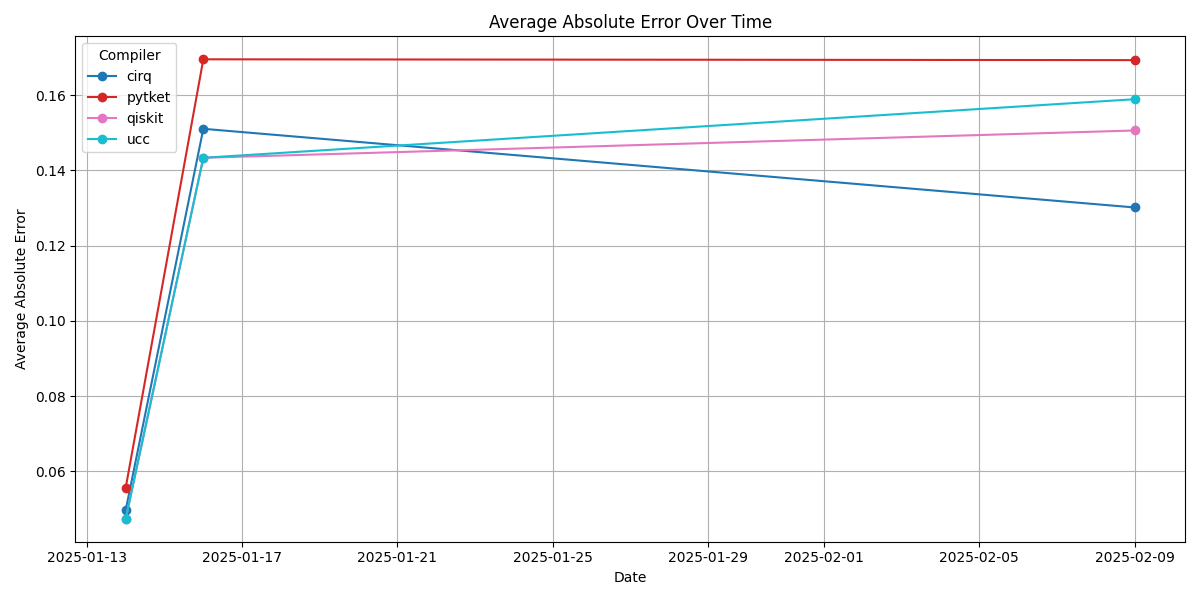
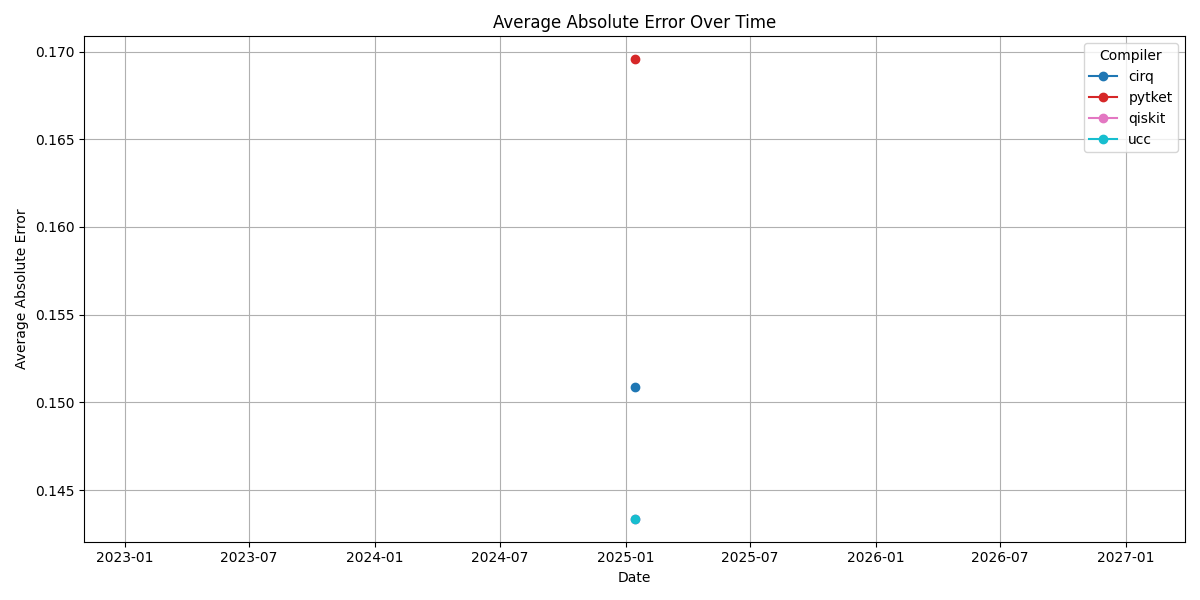
s/relative/absolute for errors

diff --git a/benchmarks/scripts/plot_expval_benchmarks_over_time.py b/benchmarks/scripts/plot_expval_benchmarks_over_time.py
@@ -33,9 +33,9 @@ df_all = pd.concat(dfs, ignore_index=True)
 # Convert the 'date' column to datetime
 df_all['date'] = pd.to_datetime(df_all['date'])
 
-# Step 6: Group by date and compiler, and calculate the average relative error
+# Step 6: Group by date and compiler, and calculate the average absolute error
 summary = df_all.groupby(['date', 'compiler']).agg(
-    avg_relative_error=('relative_error', 'mean')
+    avg_absolute_error=('absoluate_error', 'mean')
 ).reset_index()
 
 # Step 7: Set up the figure
@@ -46,28 +46,27 @@ unique_compilers = sorted(summary['compiler'].unique())
 colormap = plt.get_cmap("tab10", len(unique_compilers))
 color_map = {compiler: colormap(i) for i, compiler in enumerate(unique_compilers)}
 
-# Step 8: Plot average relative error over time
+# Step 8: Plot average absolute error over time
 for compiler in unique_compilers:
     compiler_data = summary[summary['compiler'] == compiler]
     
-    # Plot average relative error
     ax.plot(
         compiler_data['date'], 
-        compiler_data['avg_relative_error'], 
+        compiler_data['avg_absolute_error'], 
         label=compiler, 
         color=color_map[compiler], 
         marker='o'
     )
 
 # Step 9: Customize plot
-ax.set_title("Average Relative Error Over Time")
+ax.set_title("Average Absolute Error Over Time")
 ax.set_xlabel("Date")
-ax.set_ylabel("Average Relative Error")
+ax.set_ylabel("Average Absolute Error")
 ax.grid(True)
 ax.legend(title="Compiler")
 
 # Adjust layout and save the figure
 plt.tight_layout()
-filename = os.path.join(directory_of_this_file, "../average_relative_error_over_time.png")
+filename = os.path.join(directory_of_this_file, "../average_absolute_error_over_time.png")
 print(f"\n Saving plot to {filename}")
 fig.savefig(filename)
